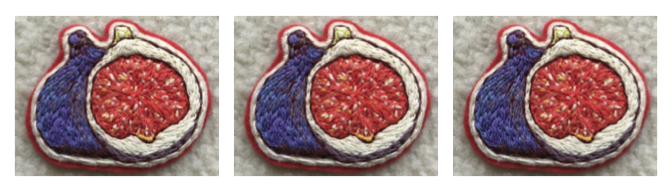
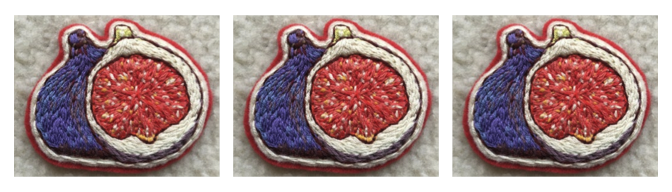
add support for change of padding

diff --git a/README.md b/README.md
@@ -124,24 +124,54 @@ To add borders around indiviual figures, use `b_*` options inside of
 `figwrap()` or also inside `fig()`.
 
 ``` r
-figwrap(list(img, img, img), "A", prefix = "(", suffix = ")", b_col = "black")
+figwrap(
+  list(img, img, img),
+  "A",
+  prefix = "(",
+  suffix = ")",
+  b_col = "black"
+)
 ```
 
 <img src="man/figures/README-unnamed-chunk-8-1.png" width="100%" />
+
+Assembling lots of figures.
 
 ``` r
 knitr::opts_chunk$set(fig.height = 5, fig.width = 7)
 ```
 
-Assembling lots of figures.
-
 ``` r
 figs <- lapply(1:9, function(x) img)
 
-figwrap(figs, nrow = 3, labelling = 1, suffix = ")", b_col = "gray20", b_size = 2)
+figwrap(
+  figs,
+  nrow = 3,
+  labelling = 1,
+  suffix = ")",
+  b_col = "gray20",
+  b_size = 2
+)
 ```
 
 <img src="man/figures/README-unnamed-chunk-10-1.png" width="100%" />
+
+Adjust the padding around plots with `b_margins` and change the unit
+used with `b_unit`.
+
+``` r
+figwrap(
+  figs,
+  nrow = 3,
+  labelling = 1,
+  suffix = ")",
+  b_col = "gray20",
+  b_size = 2, 
+  b_margins = 0.02
+)
+```
+
+<img src="man/figures/README-unnamed-chunk-11-1.png" width="100%" />
 
 ## Adding specific sub-plot text.
 
@@ -162,4 +192,4 @@ design <- "AB
 patchwork::wrap_plots(img1, img2, img3, design = design)
 ```
 
-<img src="man/figures/README-unnamed-chunk-11-1.png" width="100%" />
+<img src="man/figures/README-unnamed-chunk-12-1.png" width="100%" />
